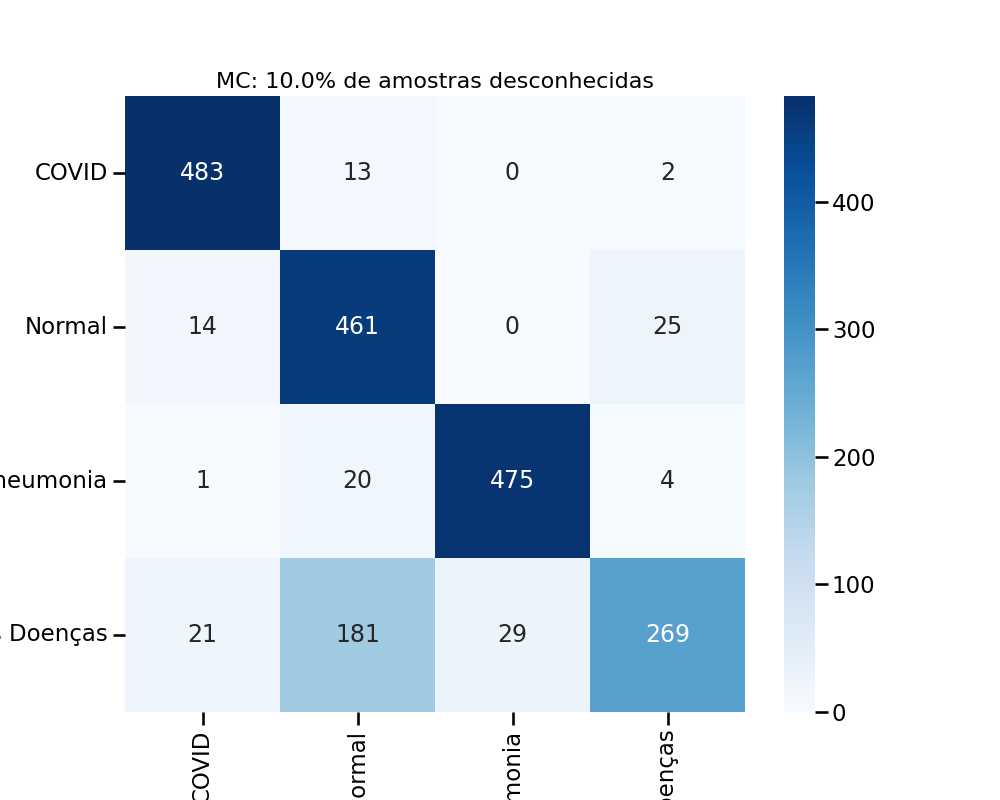
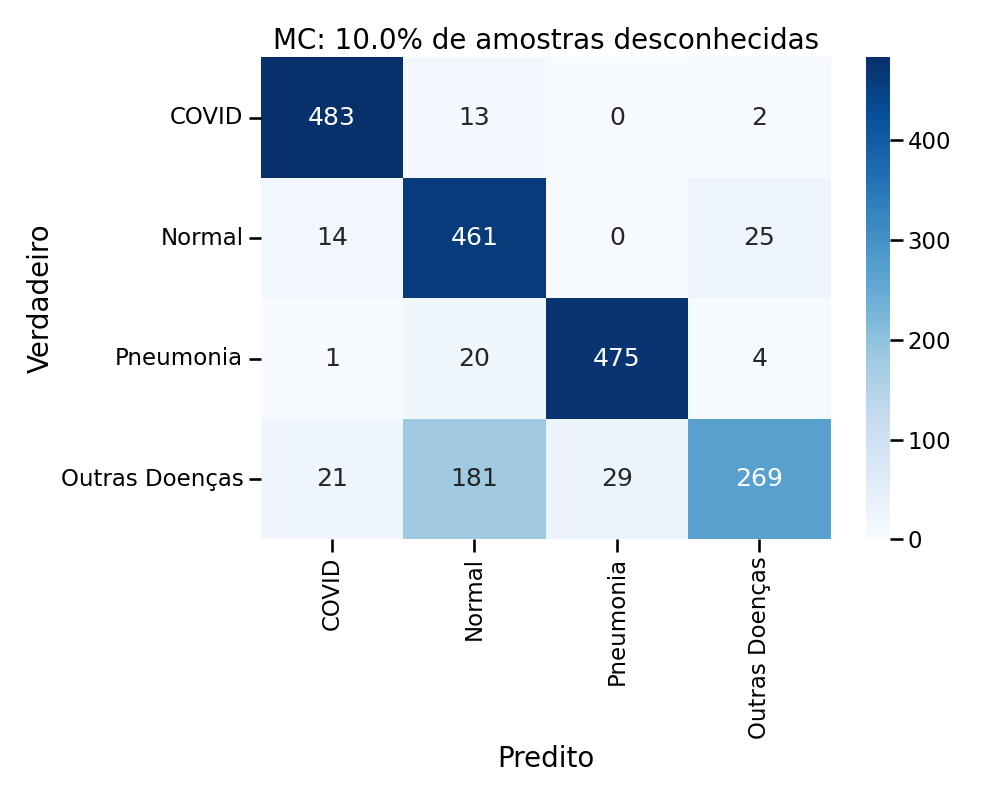
increase fontsize

diff --git a/cmd/experiments_remake.py b/cmd/experiments_remake.py
@@ -76,13 +76,14 @@ for percentage in percents_of_unknown_samples:
         json.dump(stats, f)
 
     # Plotando a matriz de confusão
-    plt.rc('font', size=12)
+    plt.rc('font', size=14)
     sns.set_context('talk')
     plt.figure(figsize=(10, 8))
-    sns.heatmap(conf_matrix, annot=True, fmt='g', cmap='Blues', xticklabels=classes, yticklabels=classes, annot_kws={"size": 17})
-    plt.xlabel('Predito', fontsize=14)
-    plt.ylabel('Verdadeiro', fontsize=14)
-    plt.title(f'MC: {round(percentage / 4, 1)}% de amostras desconhecidas', fontsize=16)
+    sns.heatmap(conf_matrix, annot=True, fmt='g', cmap='Blues', xticklabels=classes, yticklabels=classes, annot_kws={"size": 18})
+    plt.xlabel('Predito', fontsize=20)
+    plt.ylabel('Verdadeiro', fontsize=20)
+    plt.title(f'MC: {round(percentage / 4, 1)}% de amostras desconhecidas', fontsize=20)
+    plt.tight_layout()
     plt.savefig(os.path.join(EXPERIMENT_STATS_PATH, f'retrained_confusion_matrix_{percentage}.png'))
 
     # has_concept_drift = detect_experiment_remake_concept_drift(stats=stats)

diff --git a/cmd/experiments.py b/cmd/experiments.py
@@ -82,13 +82,14 @@ for percentage in percents_of_unknown_samples:
         json.dump(stats, f)
 
     # Plotando a matriz de confusão
-    plt.rc('font', size=12)
+    plt.rc('font', size=14)
     sns.set_context('talk')
     plt.figure(figsize=(10, 8))
-    sns.heatmap(conf_matrix, annot=True, fmt='g', cmap='Blues', xticklabels=classes, yticklabels=classes, annot_kws={"size": 17})
-    plt.xlabel('Predito', fontsize=14)
-    plt.ylabel('Verdadeiro', fontsize=14)
+    sns.heatmap(conf_matrix, annot=True, fmt='g', cmap='Blues', xticklabels=classes, yticklabels=classes, annot_kws={"size": 18})
+    plt.xlabel('Predito', fontsize=20)
+    plt.ylabel('Verdadeiro', fontsize=20)
     plt.title(f'MC: {round(percentage / 4, 1)}% de amostras desconhecidas', fontsize=20)
+    plt.tight_layout()
     plt.savefig(os.path.join(EXPERIMENT_STATS_PATH, f'confusion_matrix_{percentage}.png'))
 
     has_concept_drift = detect_experimet_concept_drift(stats=stats)
